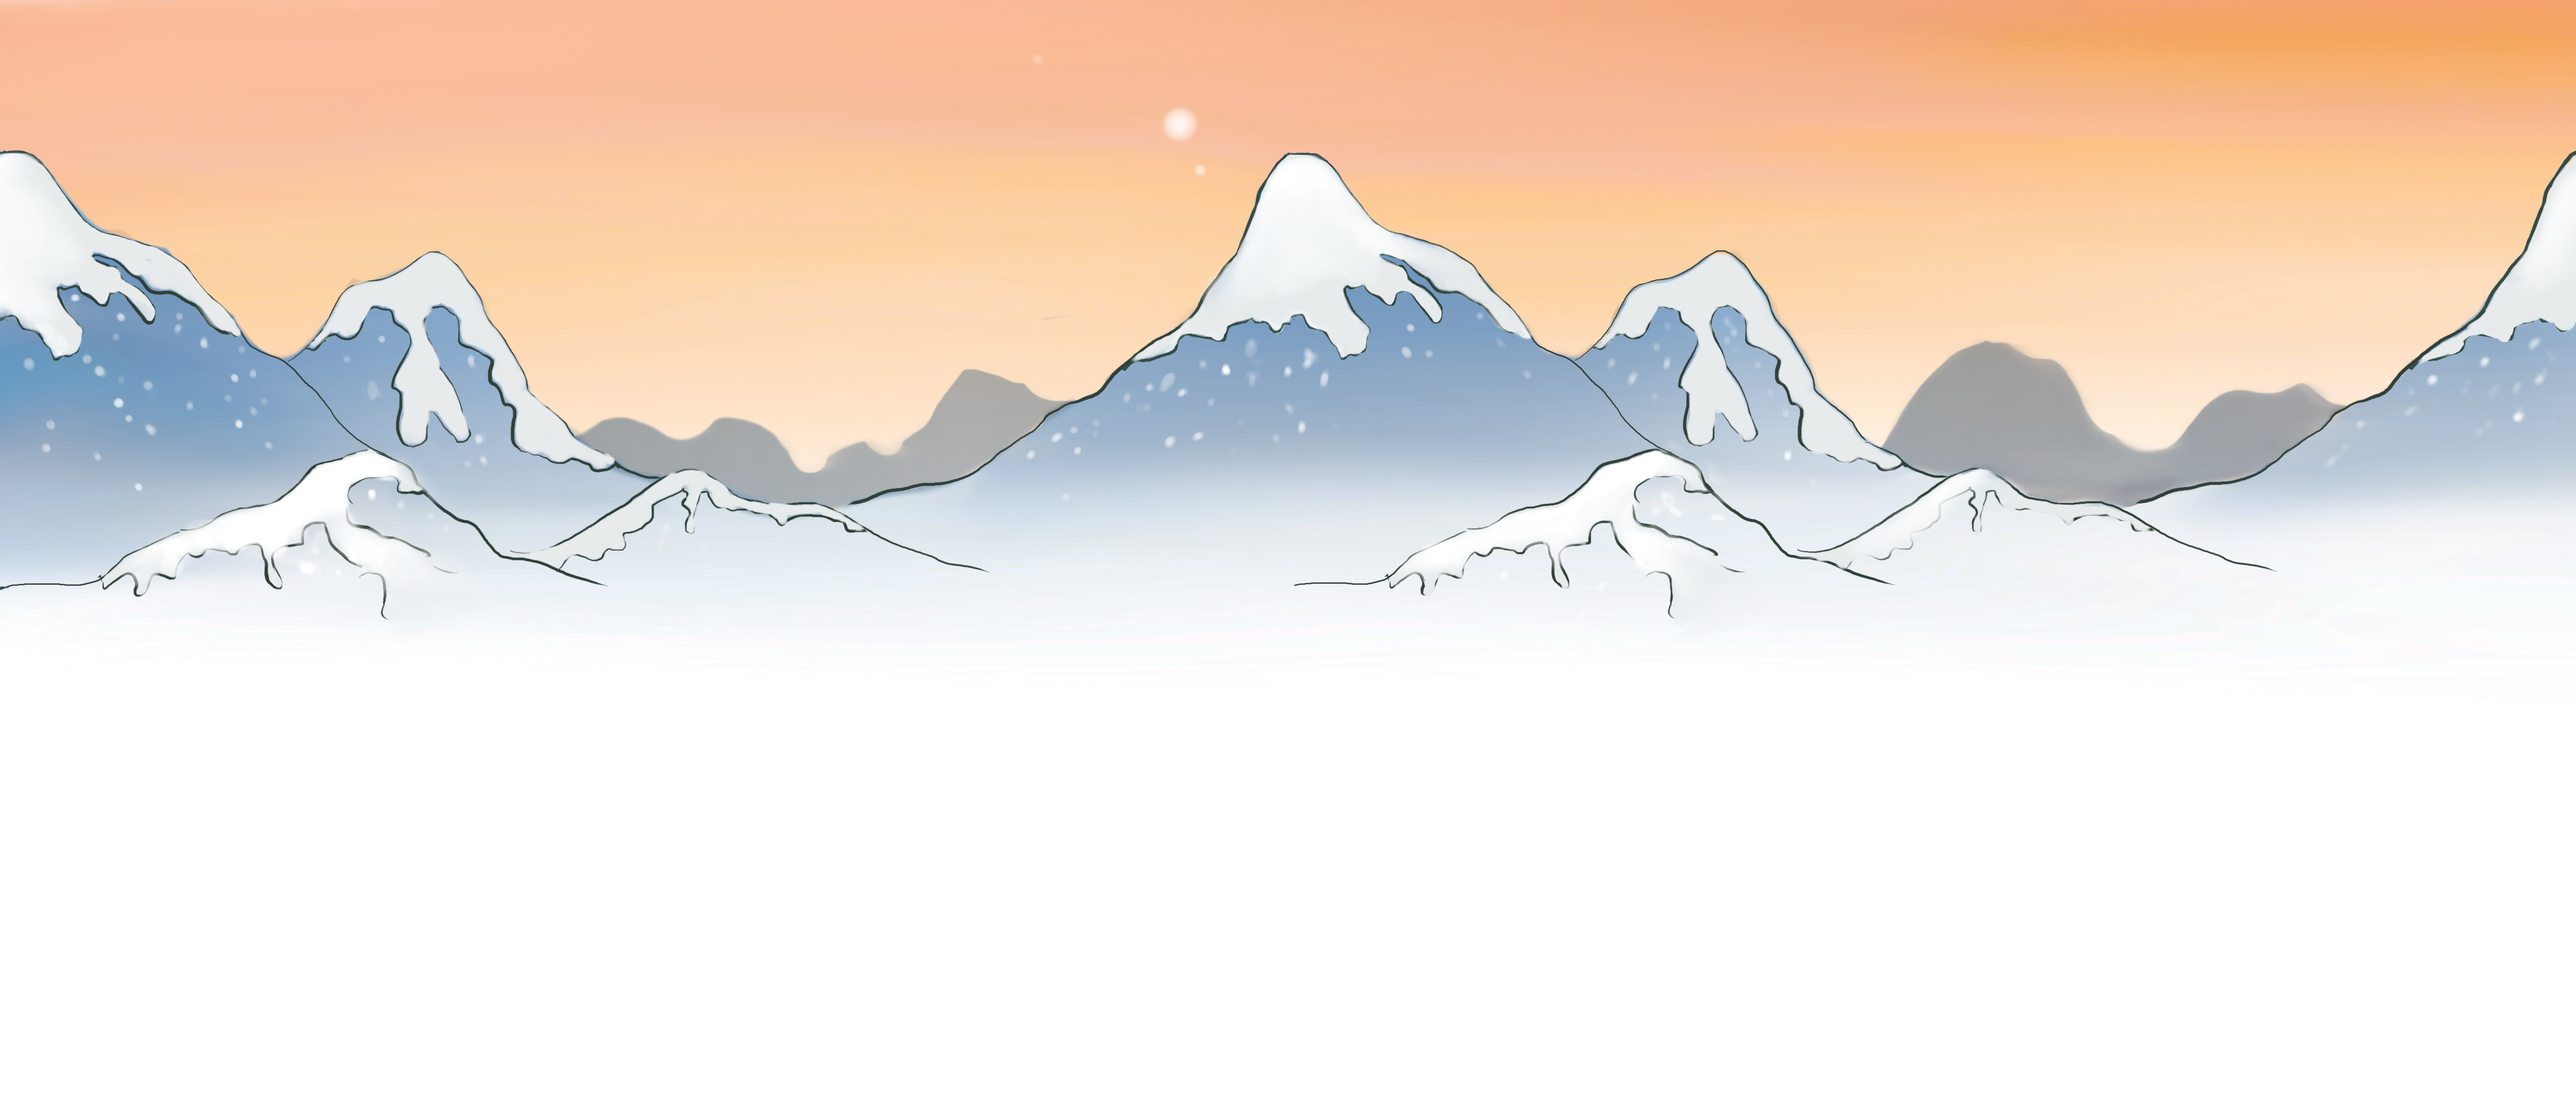
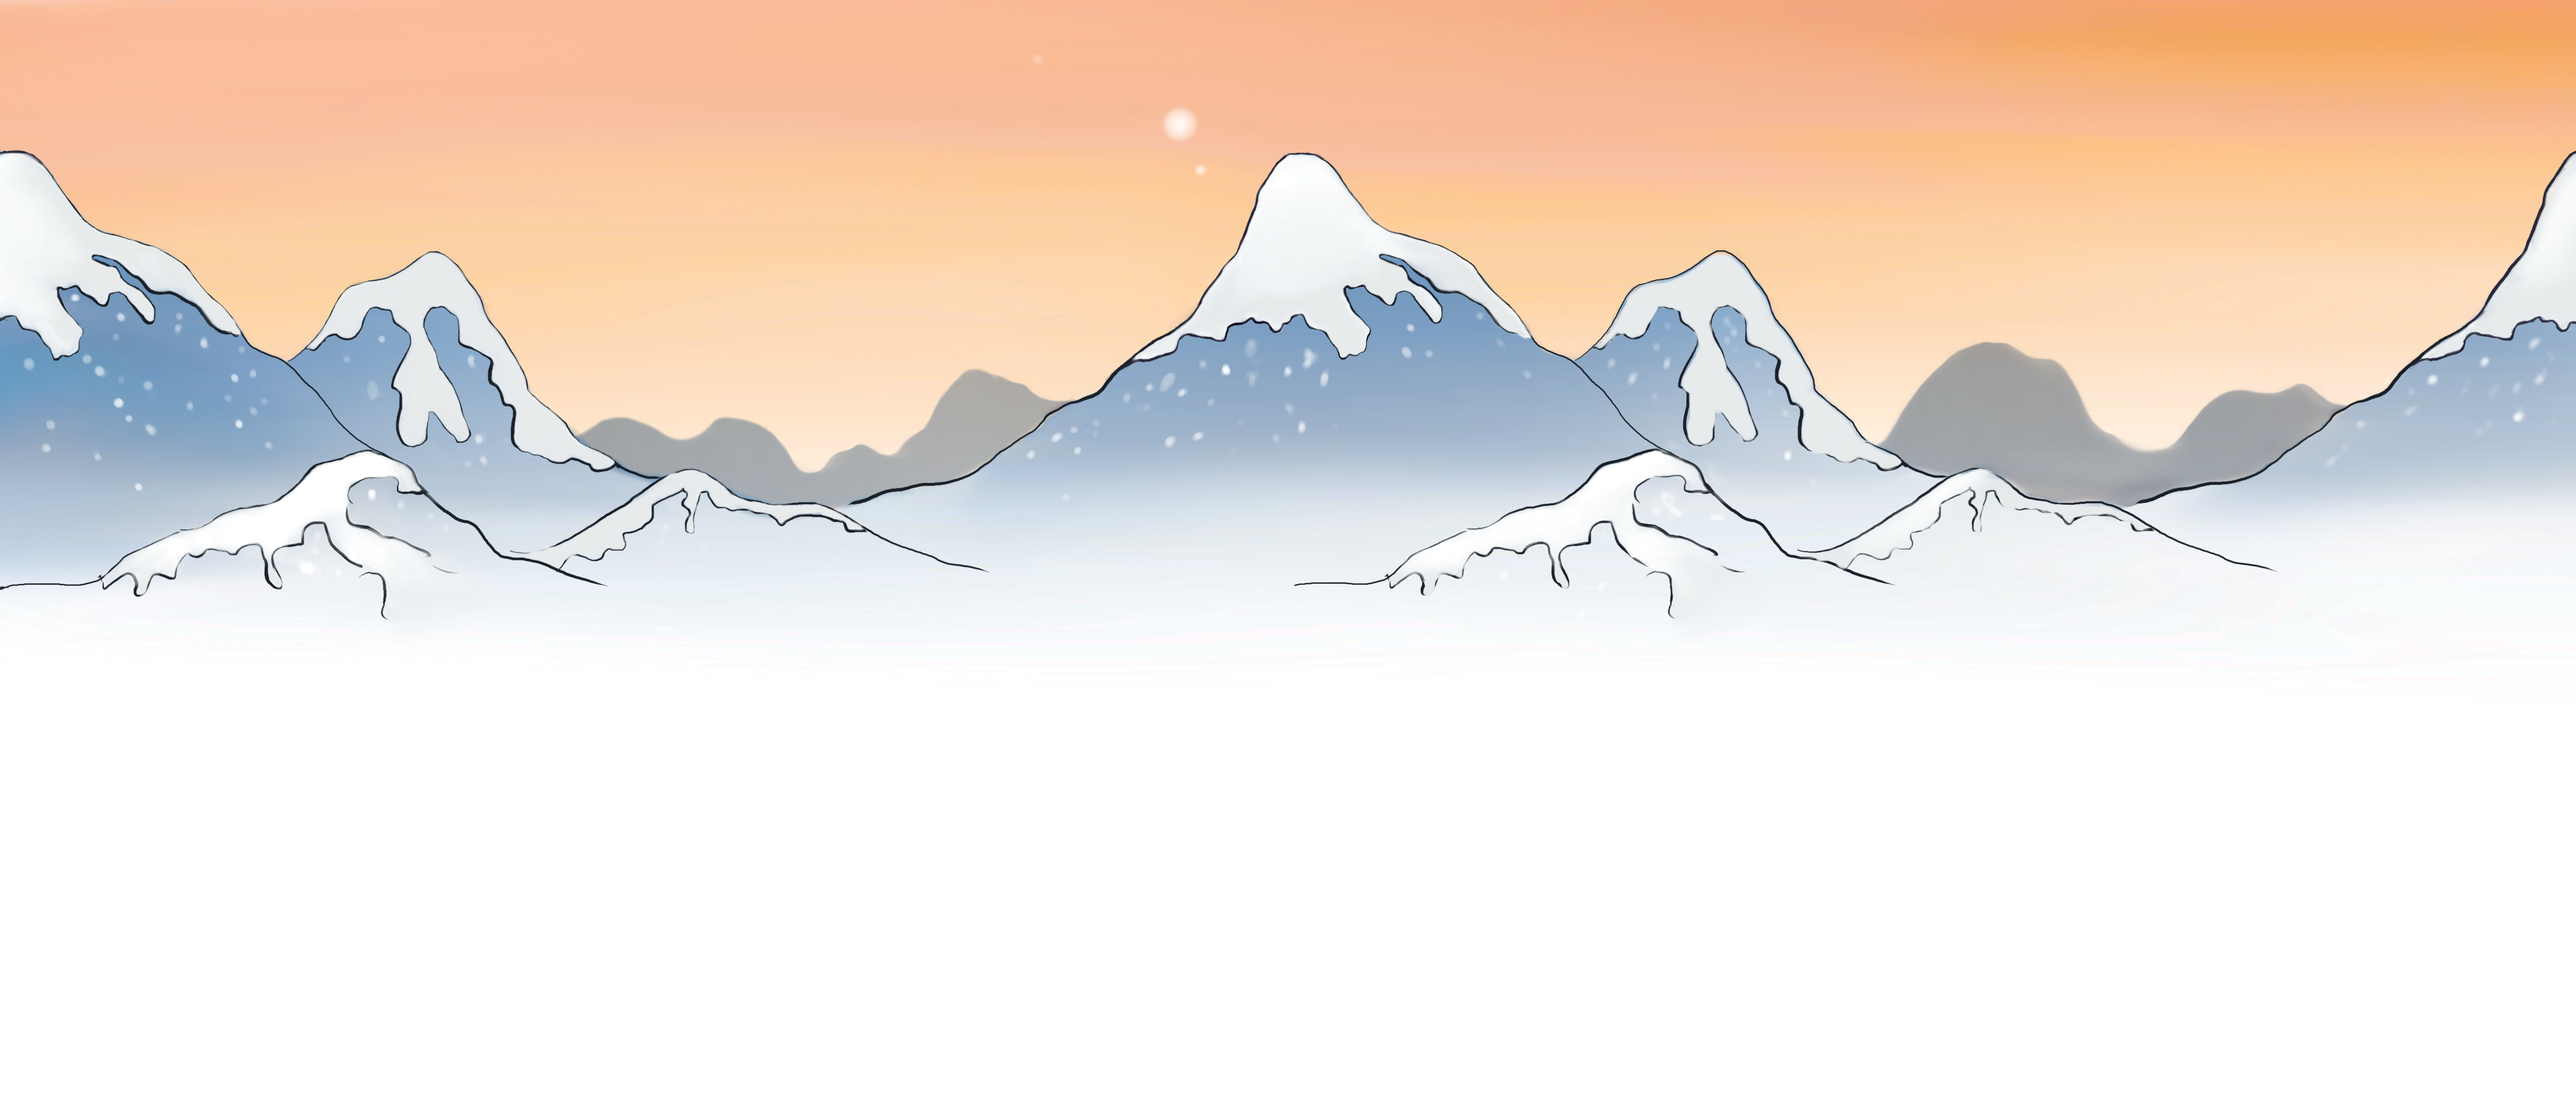
cleaned edges of bg snowscape

diff --git a/StartScene.js b/StartScene.js
@@ -37,8 +37,8 @@ class StartScene extends Phaser.Scene {
         const fontSize = getResponsiveFontSize();
         this.add.text(800, 250, "The Alchemist's Adventure", { fontSize: fontSize, fill: '#ffffff', fontFamily: 'Work Sans' }).setOrigin(0.5).setDepth(1);
 
-        // Add a start button
-        const startImage = this.add.image(800, 500, 'startImage').setInteractive().setDepth(1);
+        // Add a start image
+        /*const startImage = this.add.image(800, 500, 'startImage').setInteractive().setDepth(1);*/
 
         const startText = this.add.text(800, 750, 'Click to begin...', { fontSize: fontSize, fill: '#ffffff', fontFamily: 'Work Sans' }).setOrigin(0.5).setDepth(1).setInteractive();
         this.input.on('pointerdown', () => {
